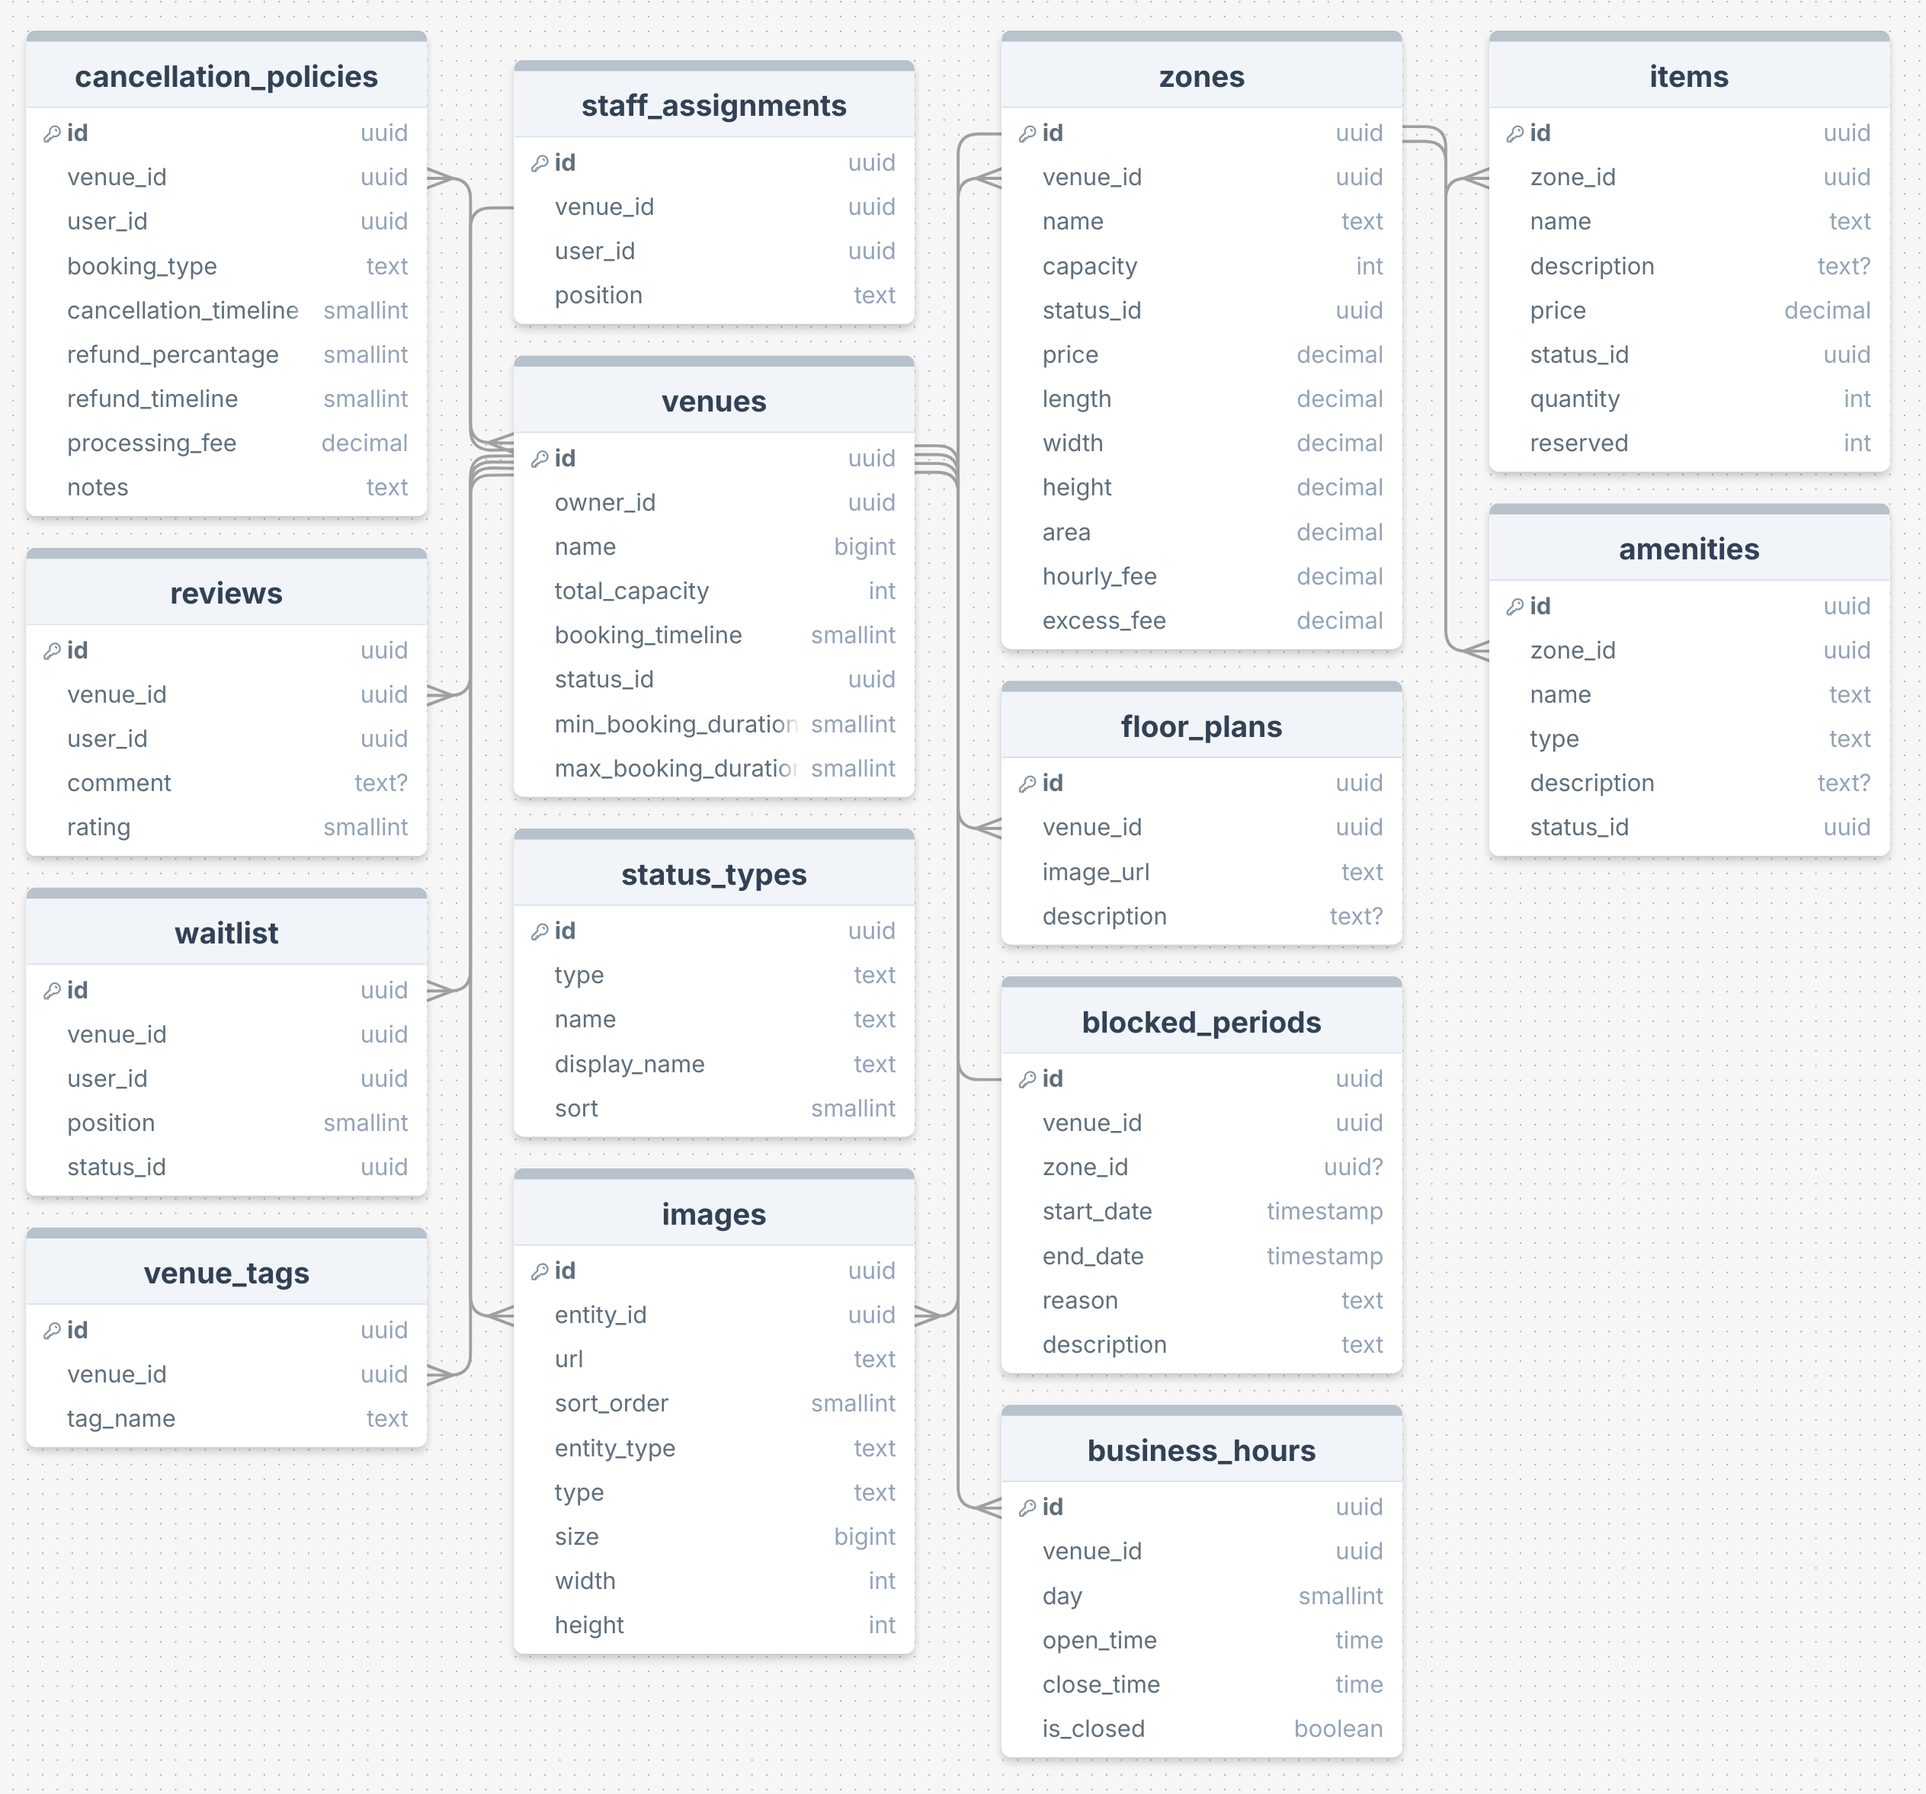
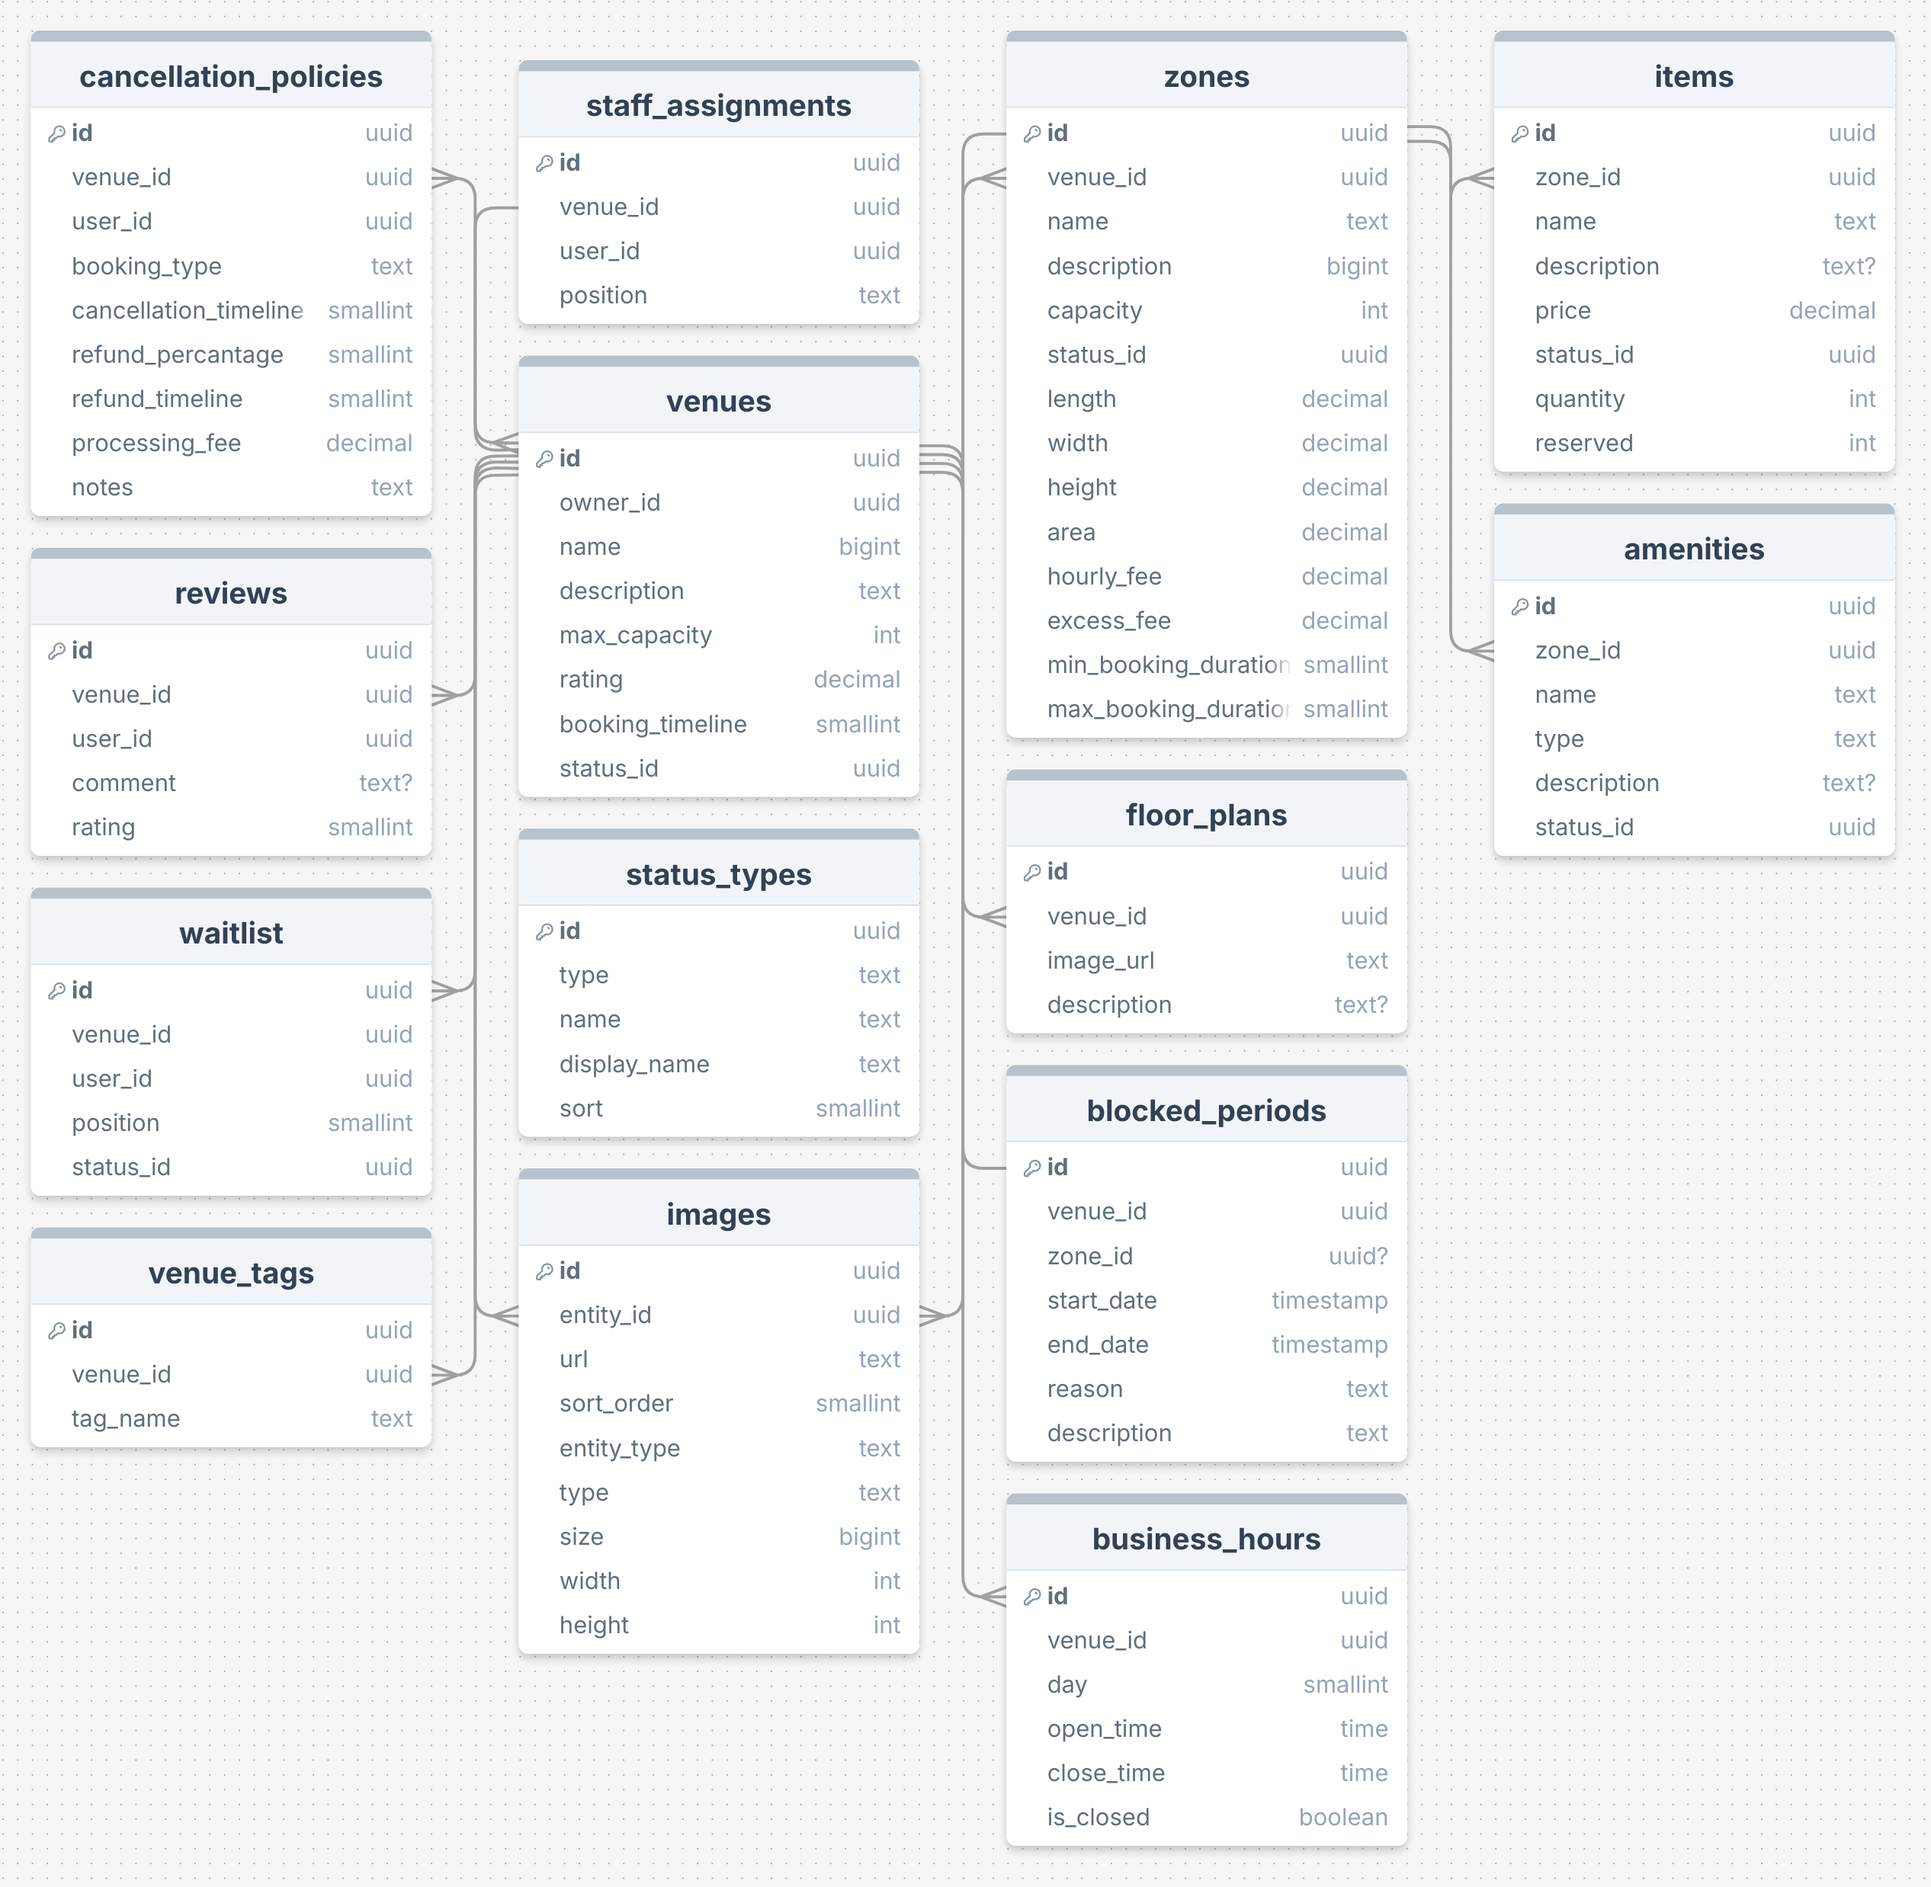
feat: add more entity fields

diff --git a/venue-service/src/main/java/dev/zbib/venueservice/entity/Venue.java b/venue-service/src/main/java/dev/zbib/venueservice/entity/Venue.java
@@ -7,6 +7,7 @@ import lombok.Data;
 import lombok.NoArgsConstructor;
 import lombok.experimental.SuperBuilder;
 
+import java.math.BigDecimal;
 import java.util.UUID;
 
 @Entity
@@ -30,11 +31,14 @@ public class Venue {
     @Column(nullable = false)
     private String name;
 
+    @Size(max = 500, message = "Description cannot exceed 500 characters")
+    private String description;
+
     @NotNull(message = "Total capacity is required")
     @Min(value = 1, message = "Total capacity must be at least 1")
     @Max(value = 100000, message = "Total capacity cannot exceed 100,000")
     @Column(name = "total_capacity", nullable = false)
-    private int totalCapacity;
+    private int maxCapacity;
 
     @NotNull(message = "Booking timeline is required")
     @Min(value = 1, message = "Booking timeline must be at least 1")
@@ -47,16 +51,5 @@ public class Venue {
     @JoinColumn(name = "status_id", nullable = false)
     private StatusTypes status;
 
-    @NotNull(message = "Minimum booking duration is required")
-    @Min(value = 1, message = "Minimum booking duration must be at least 1")
-    @Max(value = 72, message = "Minimum booking duration cannot exceed 72 hours")
-    @Column(name = "min_booking_duration", nullable = false)
-    private int minBookingDuration;
-
-    @NotNull(message = "Maximum booking duration is required")
-    @Min(value = 1, message = "Maximum booking duration must be at least 1")
-    @Max(value = 168, message = "Maximum booking duration cannot exceed 168 hours (1 week)")
-    @Column(name = "max_booking_duration", nullable = false)
-    private int maxBookingDuration;
-
+    private BigDecimal rating;
 }

diff --git a/venue-service/src/main/java/dev/zbib/venueservice/entity/Zone.java b/venue-service/src/main/java/dev/zbib/venueservice/entity/Zone.java
@@ -84,11 +84,24 @@ public class Zone {
     @Column(name = "excess_fee", precision = 8, scale = 2, nullable = false)
     private BigDecimal excessFee;
 
+    @NotNull(message = "Minimum booking duration is required")
+    @Min(value = 1, message = "Minimum booking duration must be at least 1")
+    @Max(value = 72, message = "Minimum booking duration cannot exceed 72 hours")
+    @Column(name = "min_booking_duration", nullable = false)
+    private int minBookingDuration;
+
+    @NotNull(message = "Maximum booking duration is required")
+    @Min(value = 1, message = "Maximum booking duration must be at least 1")
+    @Max(value = 168, message = "Maximum booking duration cannot exceed 168 hours (1 week)")
+    @Column(name = "max_booking_duration", nullable = false)
+    private int maxBookingDuration;
+
     @PrePersist
     @PreUpdate
     private void calculateArea() {
         if (length != null && width != null) {
-            this.area = length.multiply(width)
+            this.area = length
+                    .multiply(width)
                     .setScale(2, RoundingMode.HALF_UP);
         }
     }

diff --git a/venue-service/src/main/java/dev/zbib/venueservice/service/VenueValidator.java b/venue-service/src/main/java/dev/zbib/venueservice/service/VenueValidator.java
@@ -1,0 +1,21 @@
+package dev.zbib.venueservice.service;
+
+import dev.zbib.venueservice.dto.VenueCreationRequest;
+
+public class VenueValidator {
+
+    public void validateVenueCreation(VenueCreationRequest request) {
+
+
+    }
+
+
+    private void validateCapacity(VenueCreationRequest request) {
+        if (request.getCapacity() < 10) {}
+        if(request.getCapacity() > 100000) {}
+    }
+
+
+
+
+}

diff --git a/venue-service/src/main/java/dev/zbib/venueservice/dto/VenueCreationRequest.java b/venue-service/src/main/java/dev/zbib/venueservice/dto/VenueCreationRequest.java
@@ -3,14 +3,13 @@ package dev.zbib.venueservice.dto;
 import lombok.Getter;
 import lombok.Setter;
 
-import java.util.UUID;
-
 @Getter
 @Setter
 public class VenueCreationRequest {
     private String name;
     private int totalCapacity;
     private int bookingTimeline;
+    private int capacity;
     private int minBookingDuration;
     private int maxBookingDuration;
 }
